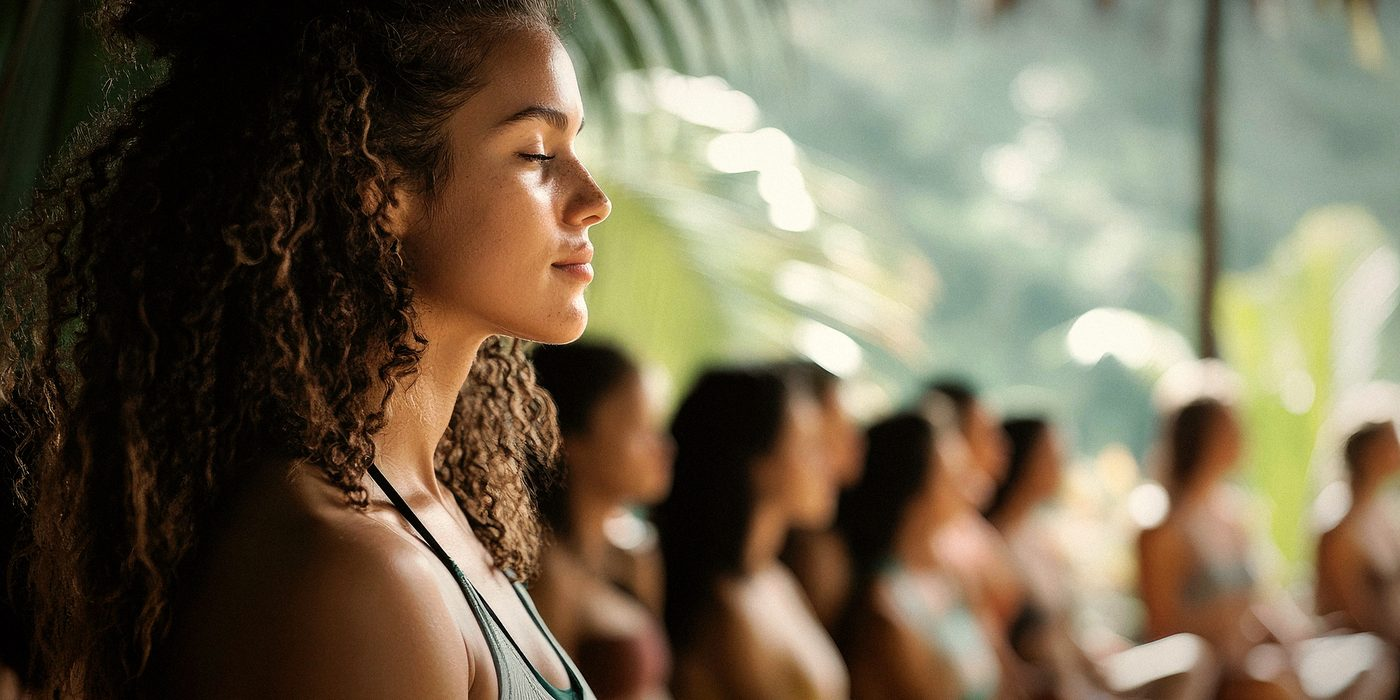
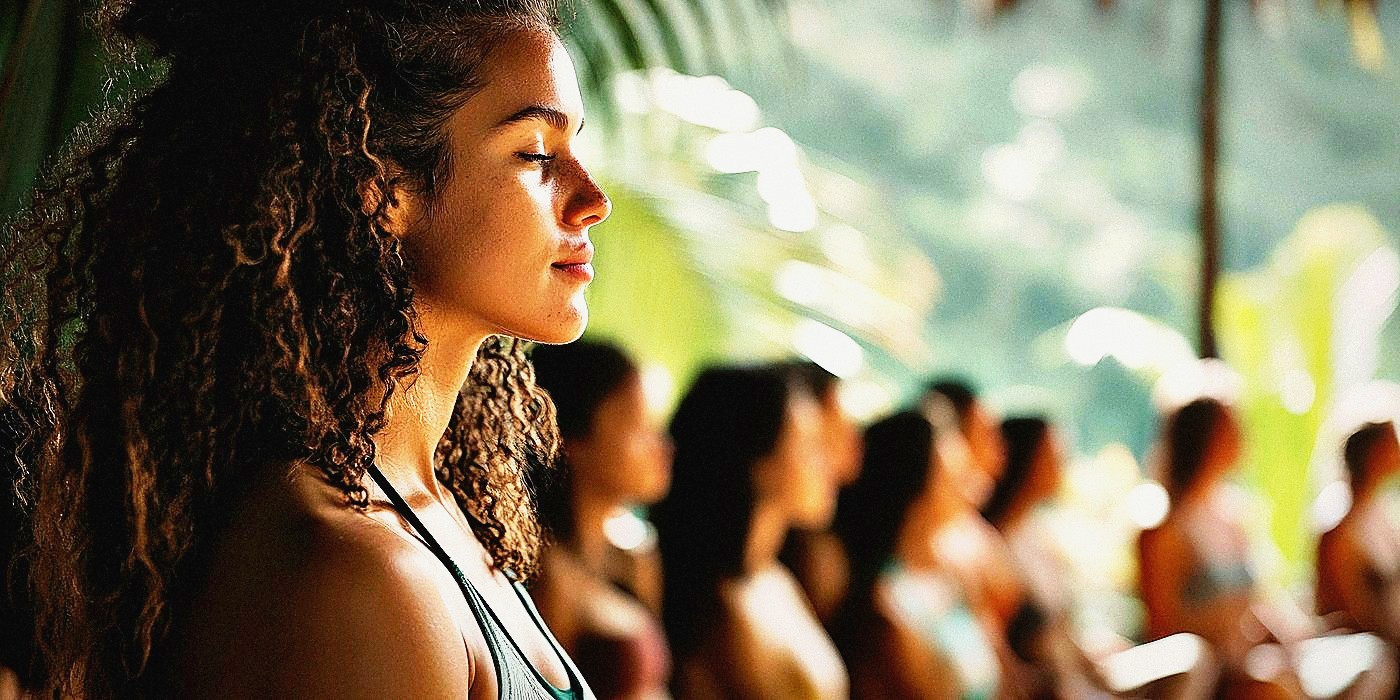
Move home hero content lower, above the bottom edge

diff --git a/app/globals.css b/app/globals.css
@@ -3080,3 +3080,7 @@ img { max-width: 100%; height: auto; display: block; }
 .pr-page .crumb .crumb-current { opacity: 1; color: var(--charcoal); margin: 0; }
 .pr-page .intro-main { min-width: 0; max-width: 760px; }
 .pr-page .pr-empty { font-size: 14px; font-weight: 300; color: var(--charcoal-50); padding: 24px 0; line-height: 1.7; }
+
+/* Home hero — sit the copy, search and CTAs low in the frame with space above
+   the bottom edge (not pinned under the header). Scoped to the home hero only. */
+.hero.hero-home { align-items: flex-end !important; padding-top: 120px !important; padding-bottom: 88px !important; }

diff --git a/app/page.tsx b/app/page.tsx
@@ -137,7 +137,7 @@ export default async function Home() {
 
   return (
     <>
-      <section className="hero">
+      <section className="hero hero-home">
         <div className="hero-bg"><img src="/images/hero-home.jpg" alt="" /></div>
         <div className="hero-overlay" />
         <div className="hero-content">
